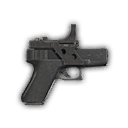
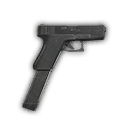
fixed g1handgun attachment states and fixed some ui elements on inventory

Changed region(s): [[0.125, 0.1562, 0.875, 0.9062], [0.375, 0.4375, 0.4062, 0.4688]]

diff --git a/components/Inventory/slot.js b/components/Inventory/slot.js
@@ -17,10 +17,10 @@ export const InventorySlot = ({ ...props }) => {
     return (
         <div className={classNames(disableBackground ? "" : "bg-re3rslot1", "relative z-1 w-[76px] h-[76px] flex-shrink-0 m-[5px] mr-0")}>
             <div className={classNames(image, "w-full h-full bg-contain bg-center bg-no-repeat")} />
-            {isEquipped && (
+            {!item.IsEmptySlot && isEquipped && (
                 <div className="absolute top-0 left-0 px-2 py-0 text-gray-200 flex justify-center items-center bg-re2requipped w-full h-full" />
             )}
-            {!isEquipped && isShortcut && (
+            {!item.IsEmptySlot && !isEquipped && isShortcut && (
                 <div className={classNames(getEquippedSlotNo(foundObject), "absolute top-0 left-0 px-2 py-0 text-gray-200 flex justify-center items-center w-full h-full bg-no-repeat")} />
             )}
             {item.IsWeapon && (
@@ -29,7 +29,7 @@ export const InventorySlot = ({ ...props }) => {
             {item.IsItem && item.Count > 1 && (
                 <div className="absolute bottom-0 right-0 px-2 py-0 text-gray-200 flex justify-center items-center">{item.Count}</div>
             )}
-            {item.Count === -1 && (
+            {item.IsWeapon && item.Count === -1 && (
                 <div className="absolute bottom-0 right-0 px-2 py-0 text-gray-200 flex justify-center items-center">∞</div>
             )}
         </div>
@@ -44,16 +44,16 @@ export const InventorySlot2 = ({ ...props }) => {
     return (
         <div className={classNames(disableBackground ? "" : "bg-re3rslot2", "relative z-1 w-[162px] h-[76px] flex-shrink-0 m-[5px] mr-0")}>
             <div className={classNames(image, "w-full h-full bg-contain bg-center bg-no-repeat")} />
-            {isEquipped && (
+            {!item.IsEmptySlot && isEquipped && (
                 <div className="absolute top-0 left-0 px-2 py-0 text-gray-200 flex justify-center items-center bg-re2requipped w-full h-full bg-no-repeat" />
             )}
-            {!isEquipped && isShortcut && (
+            {!item.IsEmptySlot && !isEquipped && isShortcut && (
                 <div className={classNames(getEquippedSlotNo(foundObject), "absolute top-0 left-0 px-2 py-0 text-gray-200 flex justify-center items-center w-full h-full bg-no-repeat")} />
             )}
-            {item.Count > 0 && (
+            {!item.IsEmptySlot && item.Count > 0 && (
                 <div className="absolute bottom-0 right-0 px-2 py-0 text-gray-200 flex justify-center items-center">{item.Count}</div>
             )}
-            {item.Count === -1 && (
+            {item.IsWeapon && item.Count === -1 && (
                 <div className="absolute bottom-0 right-0 px-2 py-0 text-gray-200 flex justify-center items-center">∞</div>
             )}
         </div>
